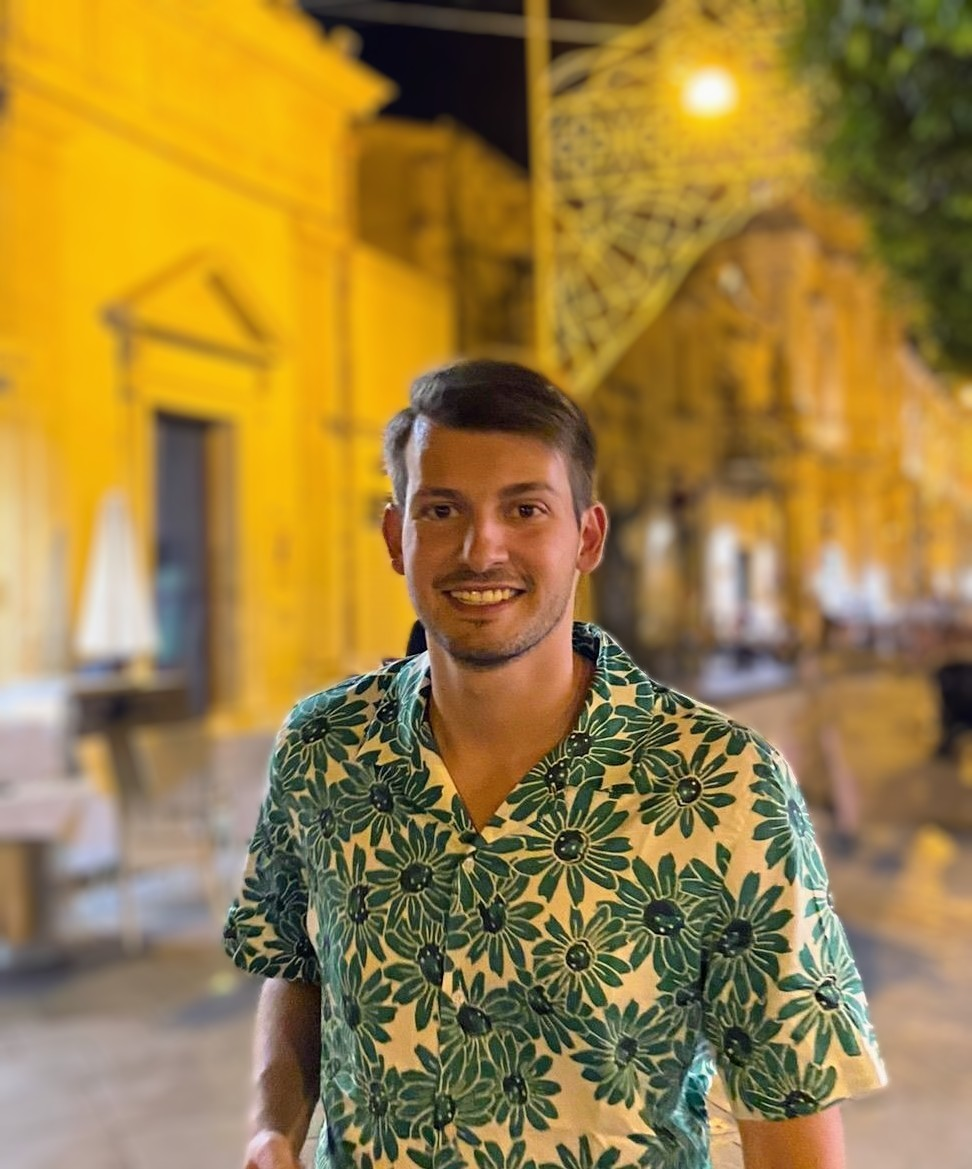
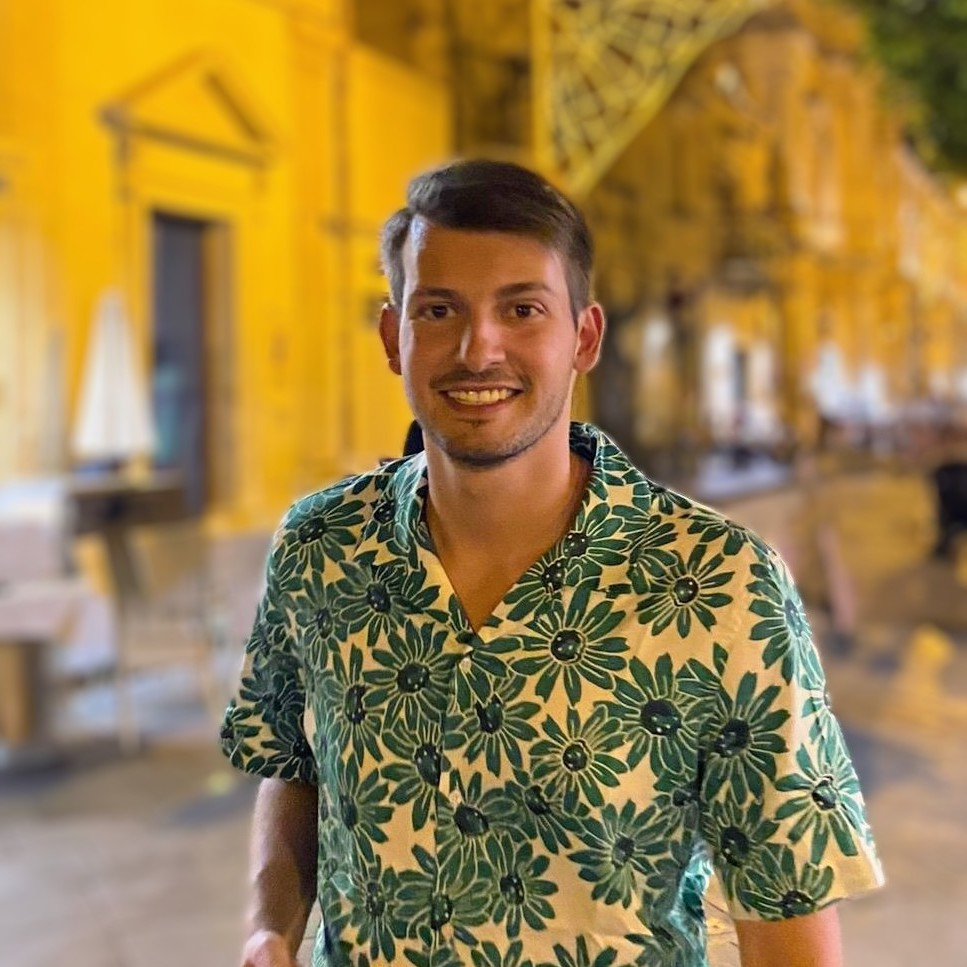
Fix image size

diff --git a/_pages/cv.md b/_pages/cv.md
@@ -11,13 +11,13 @@ redirect_from:
 
 ## Education
 
-M.Sc. in Cognitive Science, University of Trento, ongoing
+* M.Sc. in Cognitive Science, University of Trento, ongoing
 
-B.A. in Philosophy, University of Trento, 2021
+* B.A. in Philosophy, University of Trento, 2021
 
 ## Work experience
 
-March 2023 - June 2023: Research Intern @ [CLIC](https://www.cimec.unitn.it/en/71/language-interaction-and-computation-laboratory-clic)
+* March 2023 - June 2023: Research Intern @ [CLIC](https://www.cimec.unitn.it/en/71/language-interaction-and-computation-laboratory-clic)
   
 ## Skills
 

diff --git a/_pages/news.md b/_pages/news.md
@@ -5,5 +5,5 @@ permalink: /news/
 author_profile: true
 ---
 
-## July, 2023: 📄 New Paper Accepted at INLG 2023!<br>
-Very happy to share that our recent work “ChatGPT’s Information Seeking Strategy: Insights from the 20-Question Game” has been accepted at INLG 2023.
+* ## July, 2023: 📄 New Paper Accepted at INLG 2023!<br>
+    Very happy to share that our recent work “ChatGPT’s Information Seeking Strategy: Insights from the 20-Question Game” has been accepted at INLG 2023.

diff --git a/_pages/publications.md b/_pages/publications.md
@@ -11,7 +11,7 @@ author_profile: true
 
 {% include base_path %}
 
-[ChatGPT's Information Seeking Strategy: Insights from the 20-Question Game]()<br>
+* [ChatGPT's Information Seeking Strategy: Insights from the 20-Question Game]()<br>
 **L. Bertolazzi**, D. Mazzaccara, F. Merlo and R. Bernardi<br>
 *Proceedings of the 16th International Conference on Natural Language Generation (INLG)*, 2023<br>
 [[Code]](https://github.com/leobertolazzi/20q-chatgpt)

diff --git a/_pages/about.md b/_pages/about.md
@@ -18,4 +18,4 @@ Please feel free to get in touch!
 
 ## Recent News
 
-### July, 2023: 📄 New Paper Accepted at INLG 2023!
+* ### July, 2023: 📄 New Paper Accepted at INLG 2023!
